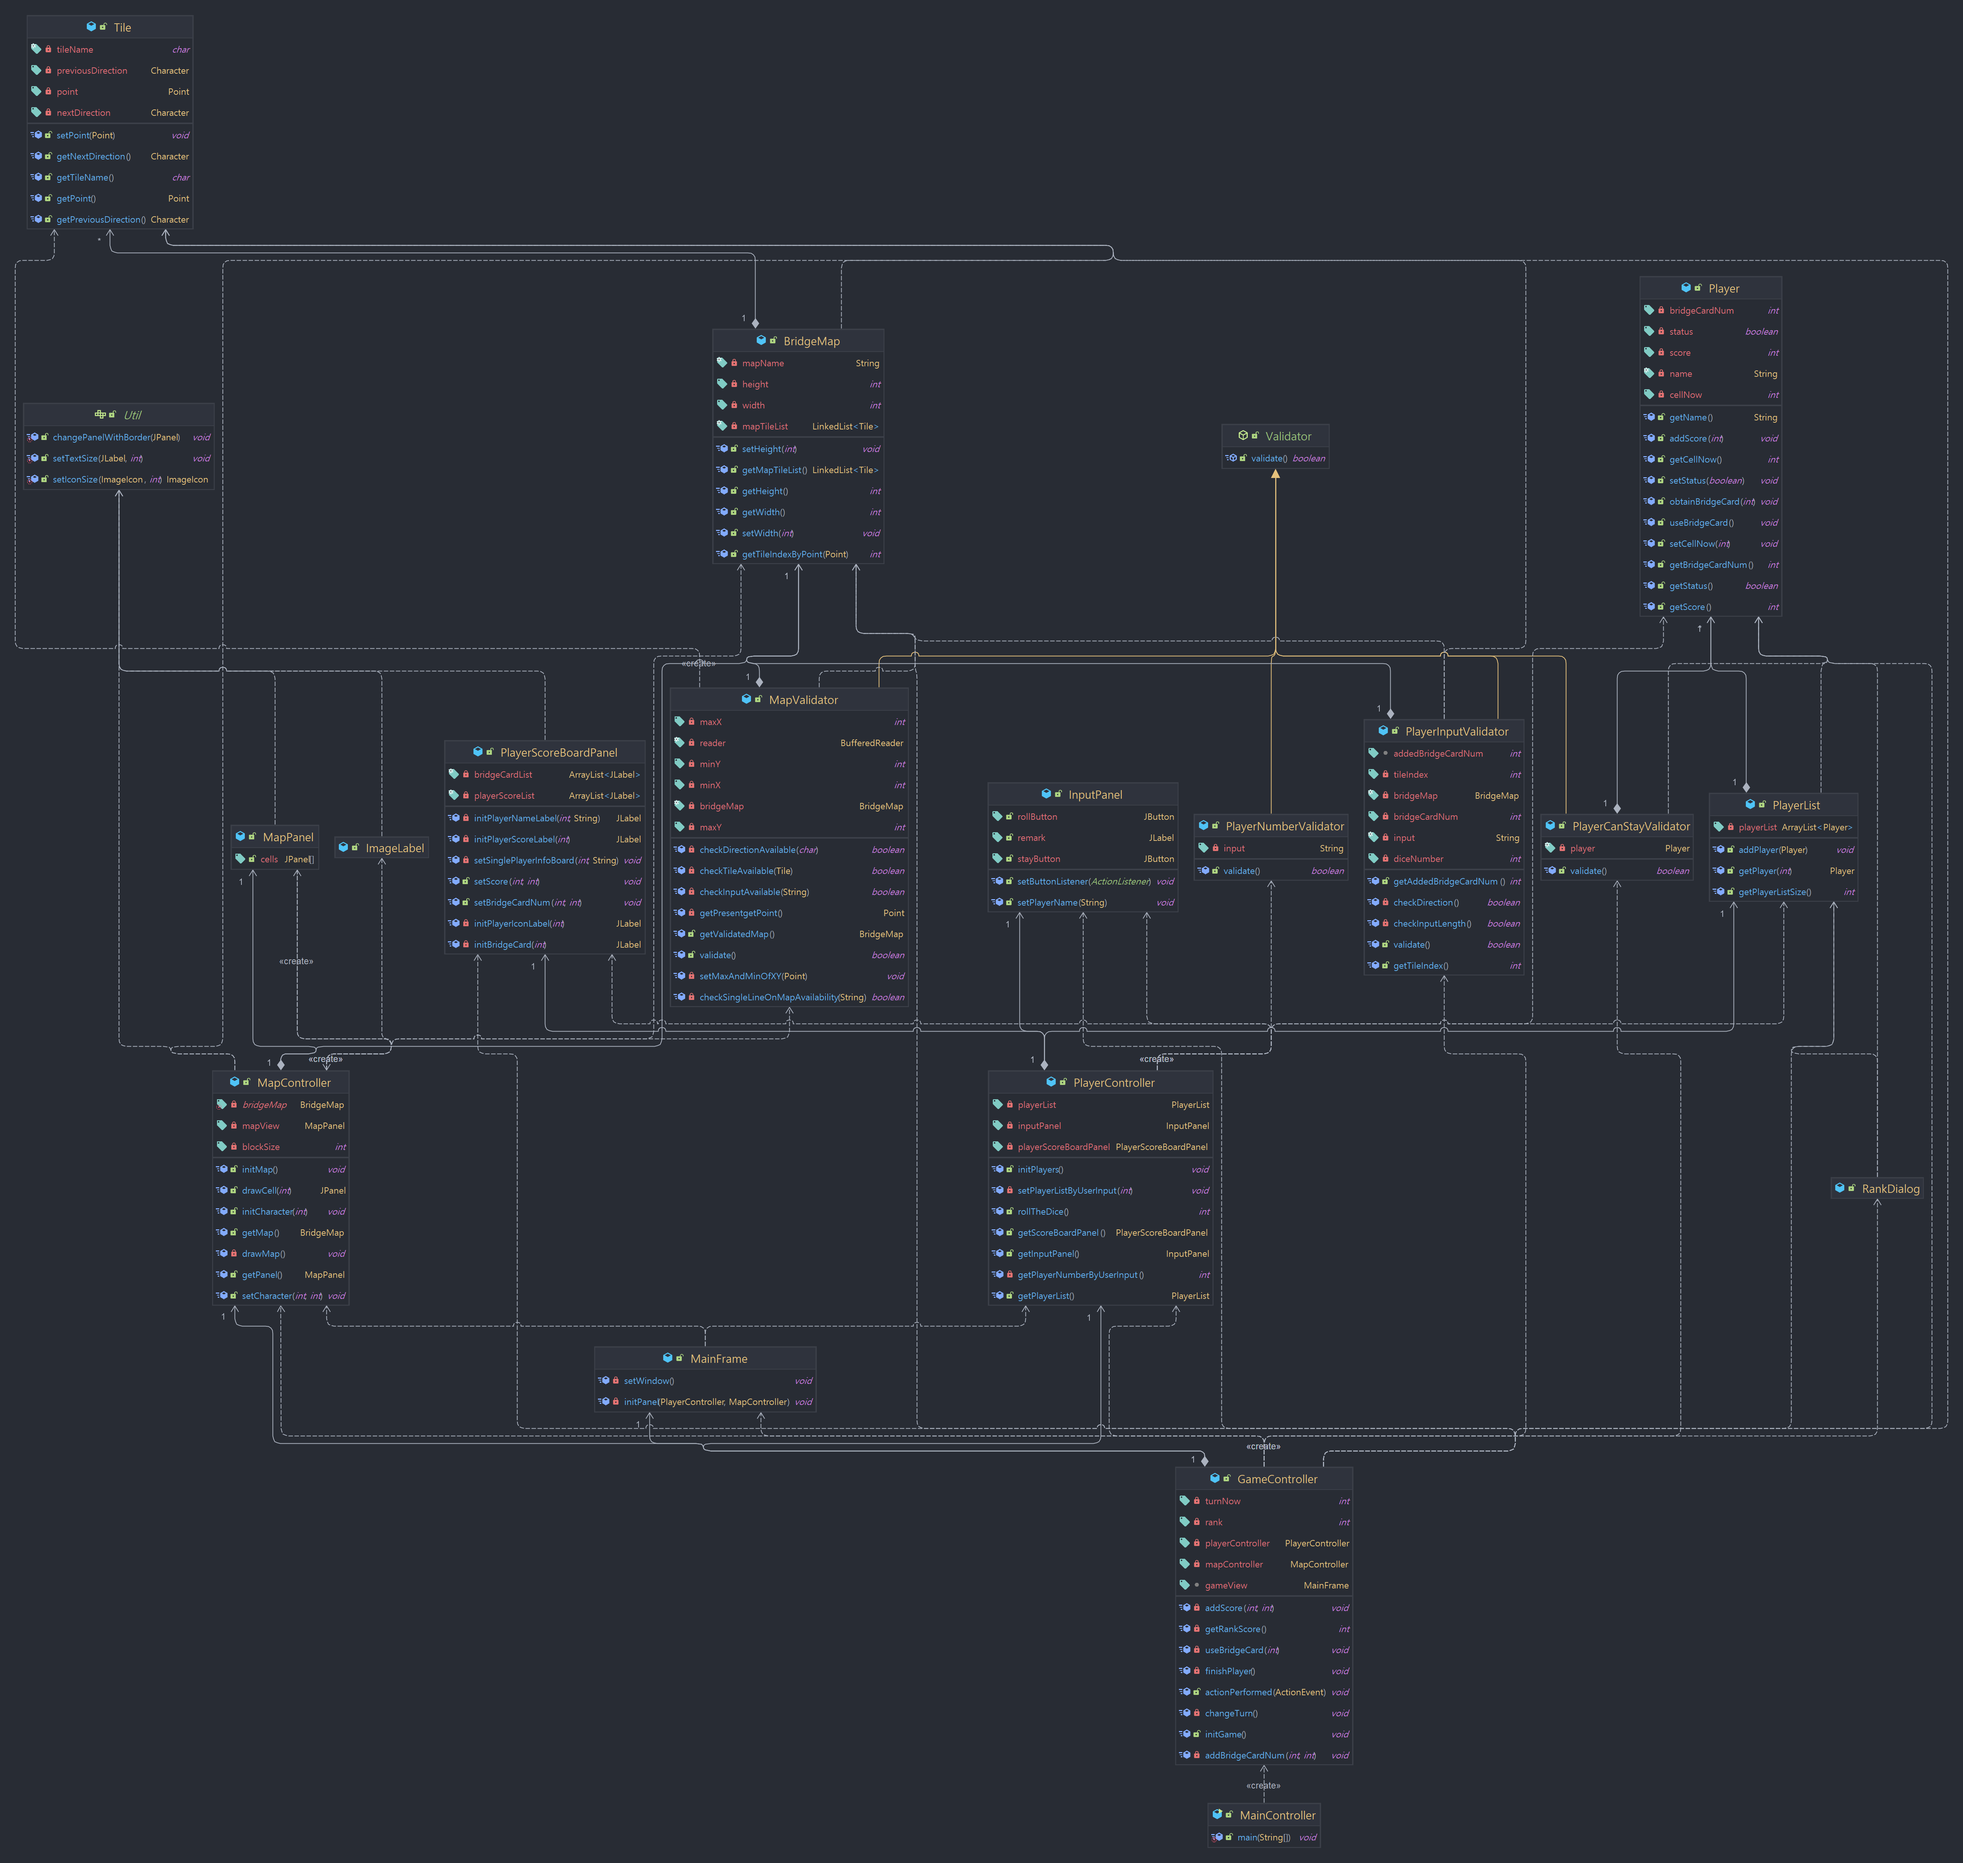
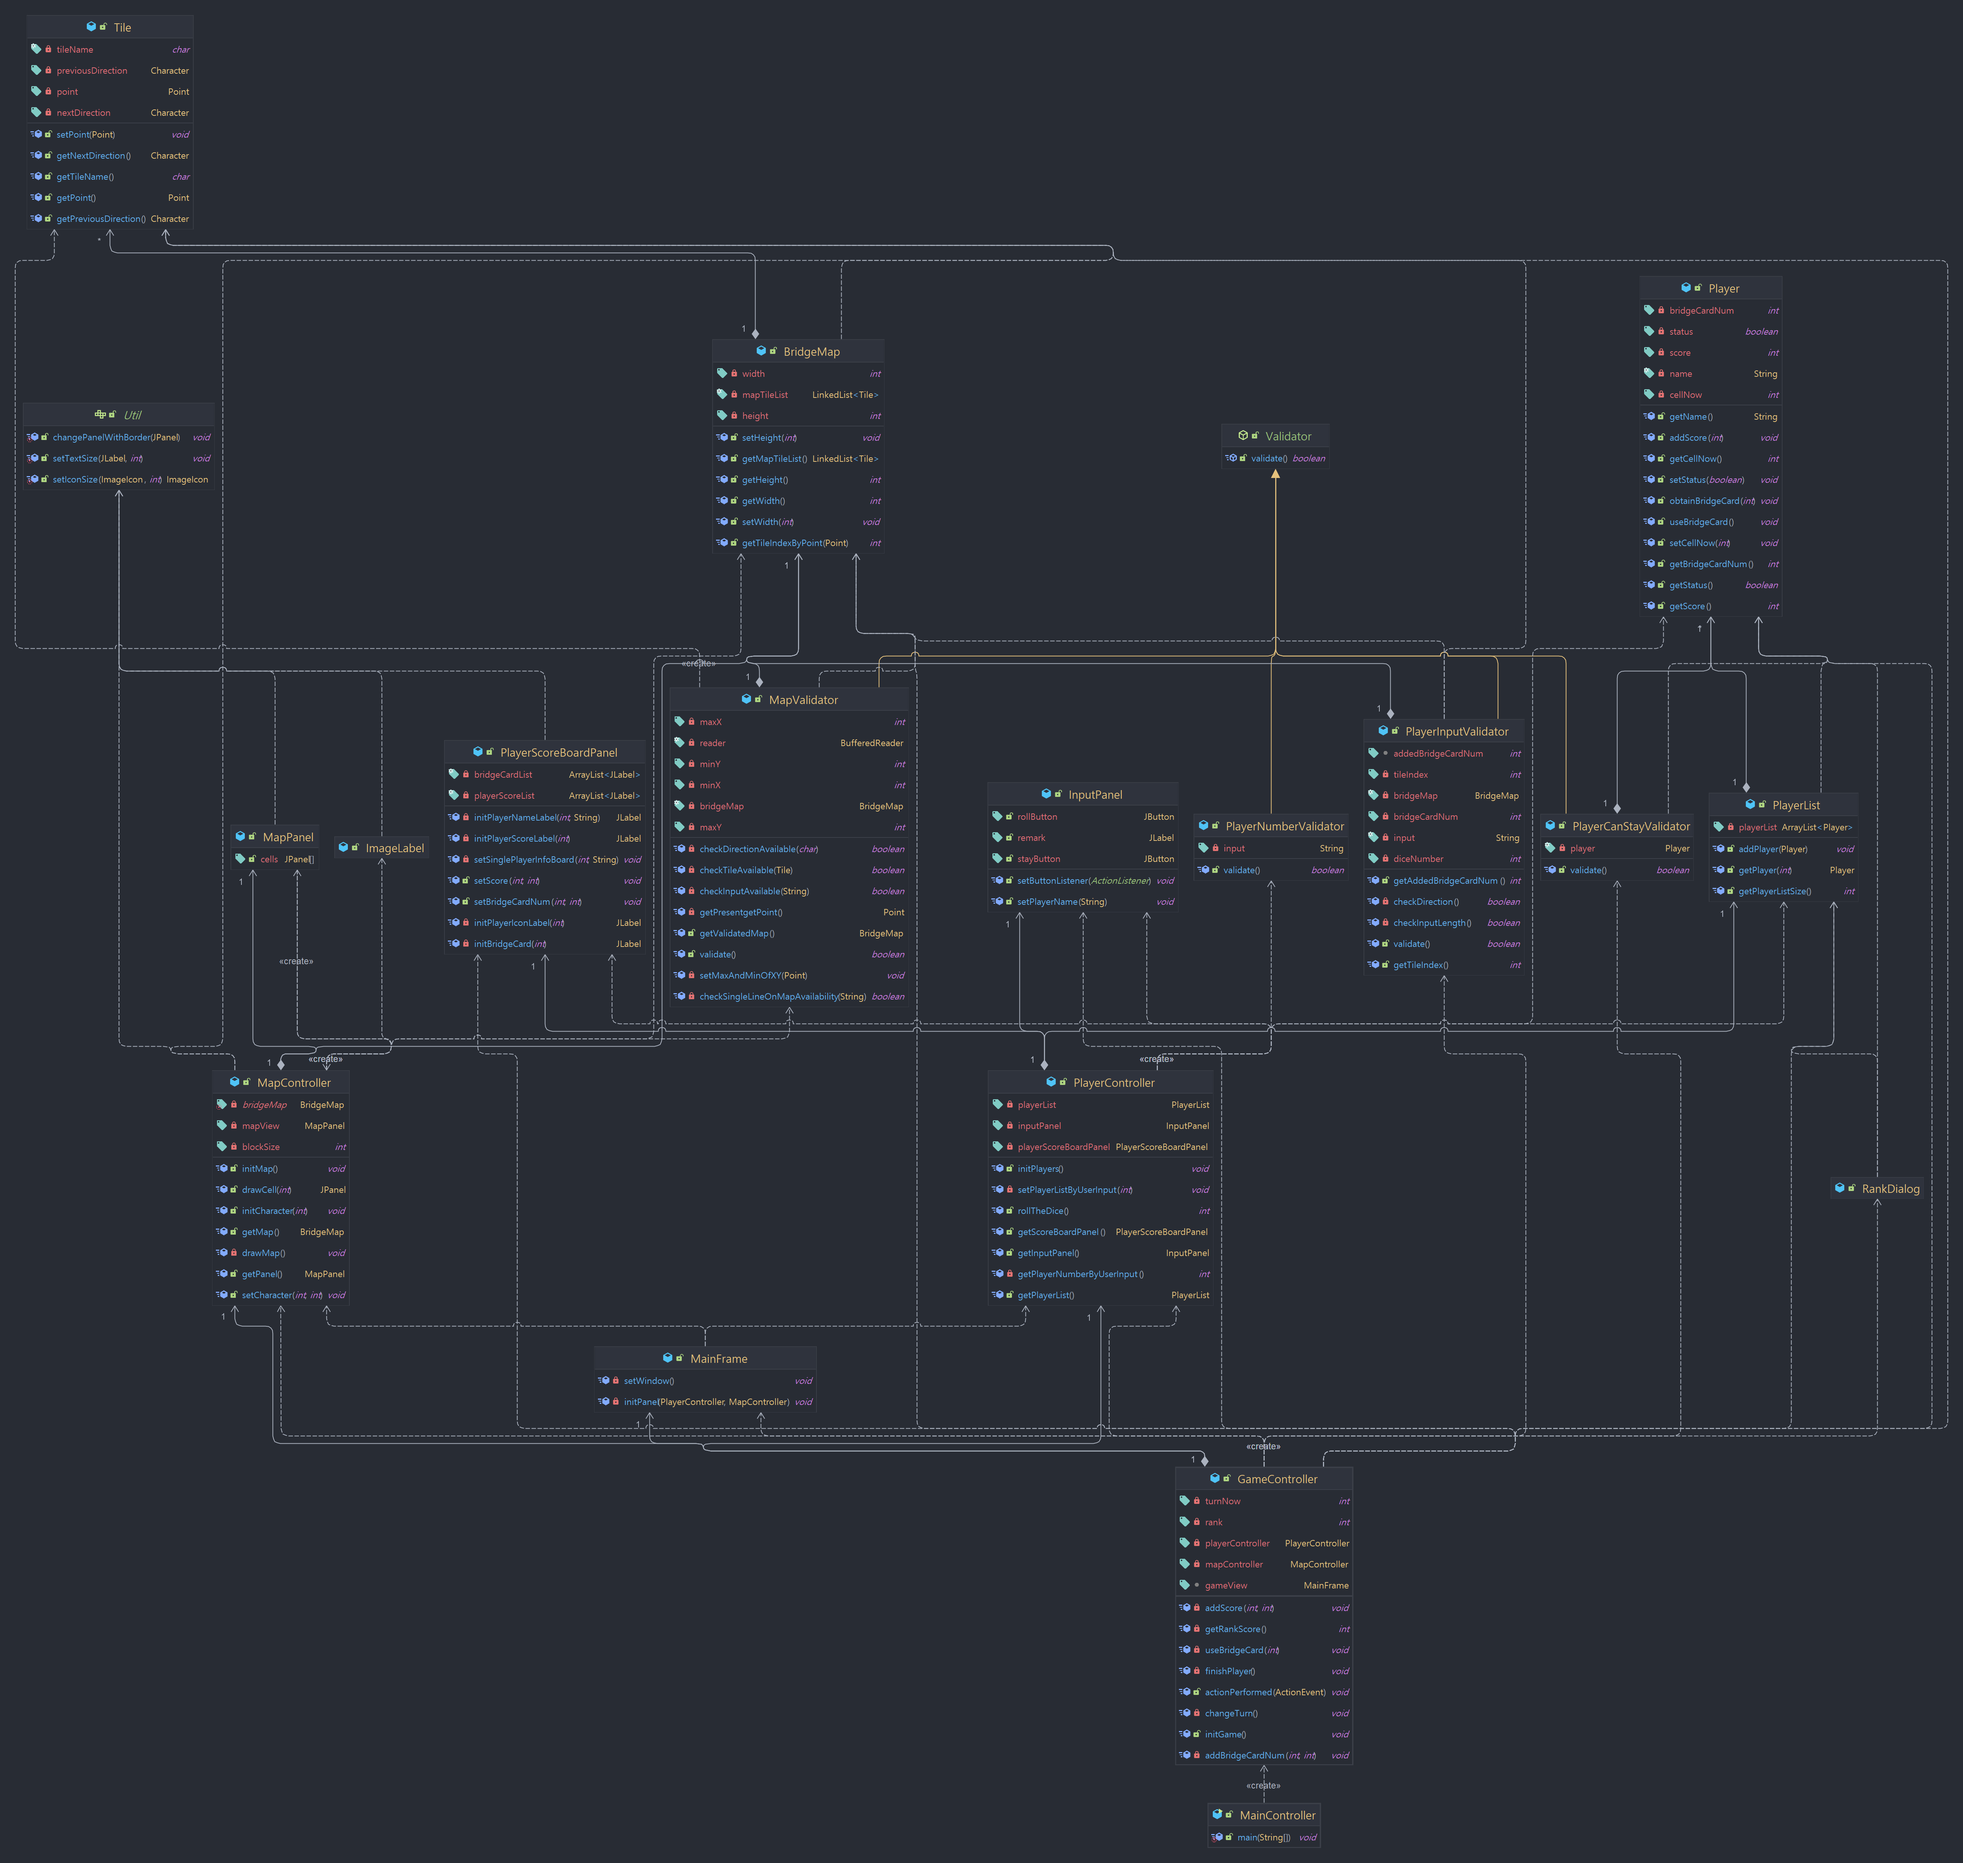
[REFACTOR] move BridgeMap and Tile to map package

diff --git a/BridgeGame/src/controller/MapController.java b/BridgeGame/src/controller/MapController.java
@@ -1,7 +1,7 @@
 package controller;
 
-import model.BridgeMap;
-import model.Tile;
+import model.map.BridgeMap;
+import model.map.Tile;
 import validator.MapValidator;
 import view.ImageLabel;
 import view.MapPanel;

diff --git a/BridgeGame/src/validator/MapValidator.java b/BridgeGame/src/validator/MapValidator.java
@@ -1,7 +1,7 @@
 package validator;
 
-import model.BridgeMap;
-import model.Tile;
+import model.map.BridgeMap;
+import model.map.Tile;
 
 import java.awt.*;
 import java.io.BufferedReader;

diff --git a/BridgeGame/src/validator/PlayerInputValidator.java b/BridgeGame/src/validator/PlayerInputValidator.java
@@ -1,7 +1,7 @@
 package validator;
 
-import model.BridgeMap;
-import model.Tile;
+import model.map.BridgeMap;
+import model.map.Tile;
 
 import java.awt.*;
 

diff --git a/BridgeGame/src/model/map/BridgeMap.java b/BridgeGame/src/model/map/BridgeMap.java
@@ -1,4 +1,4 @@
-package model;
+package model.map;
 
 import java.awt.*;
 import java.util.LinkedList;

diff --git a/BridgeGame/src/model/map/Tile.java b/BridgeGame/src/model/map/Tile.java
@@ -1,4 +1,4 @@
-package model;
+package model.map;
 
 import java.awt.*;
 
